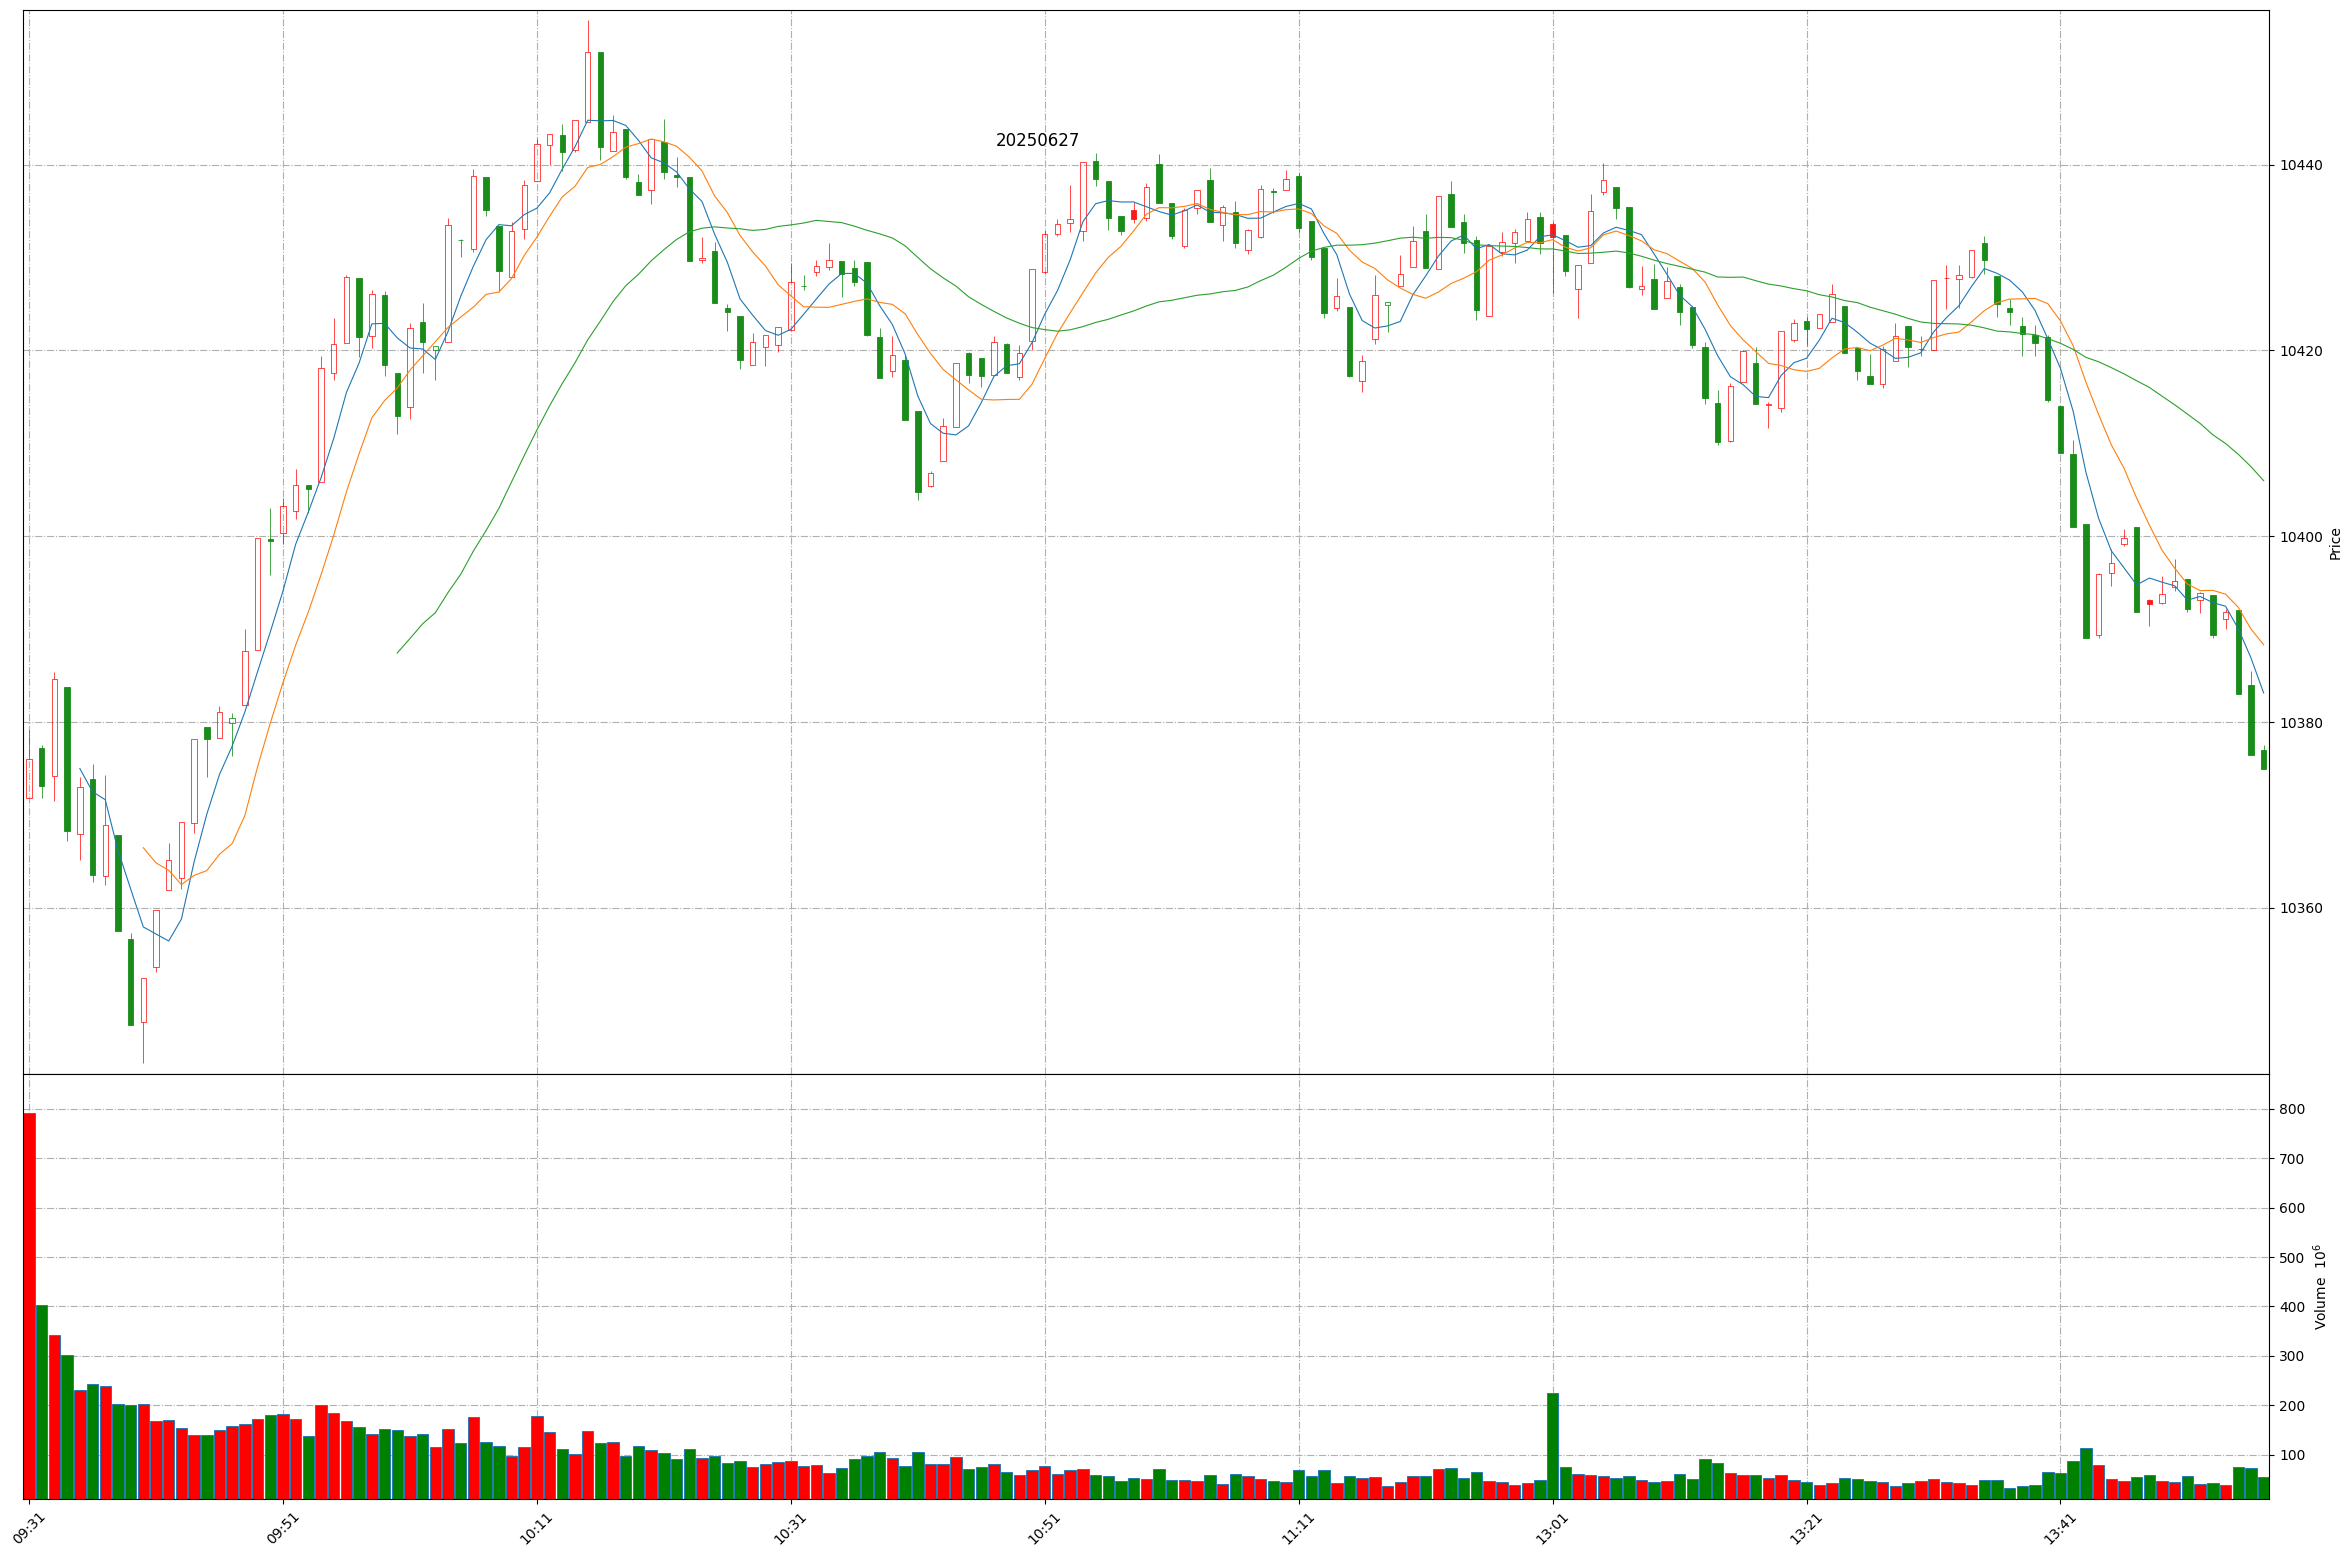
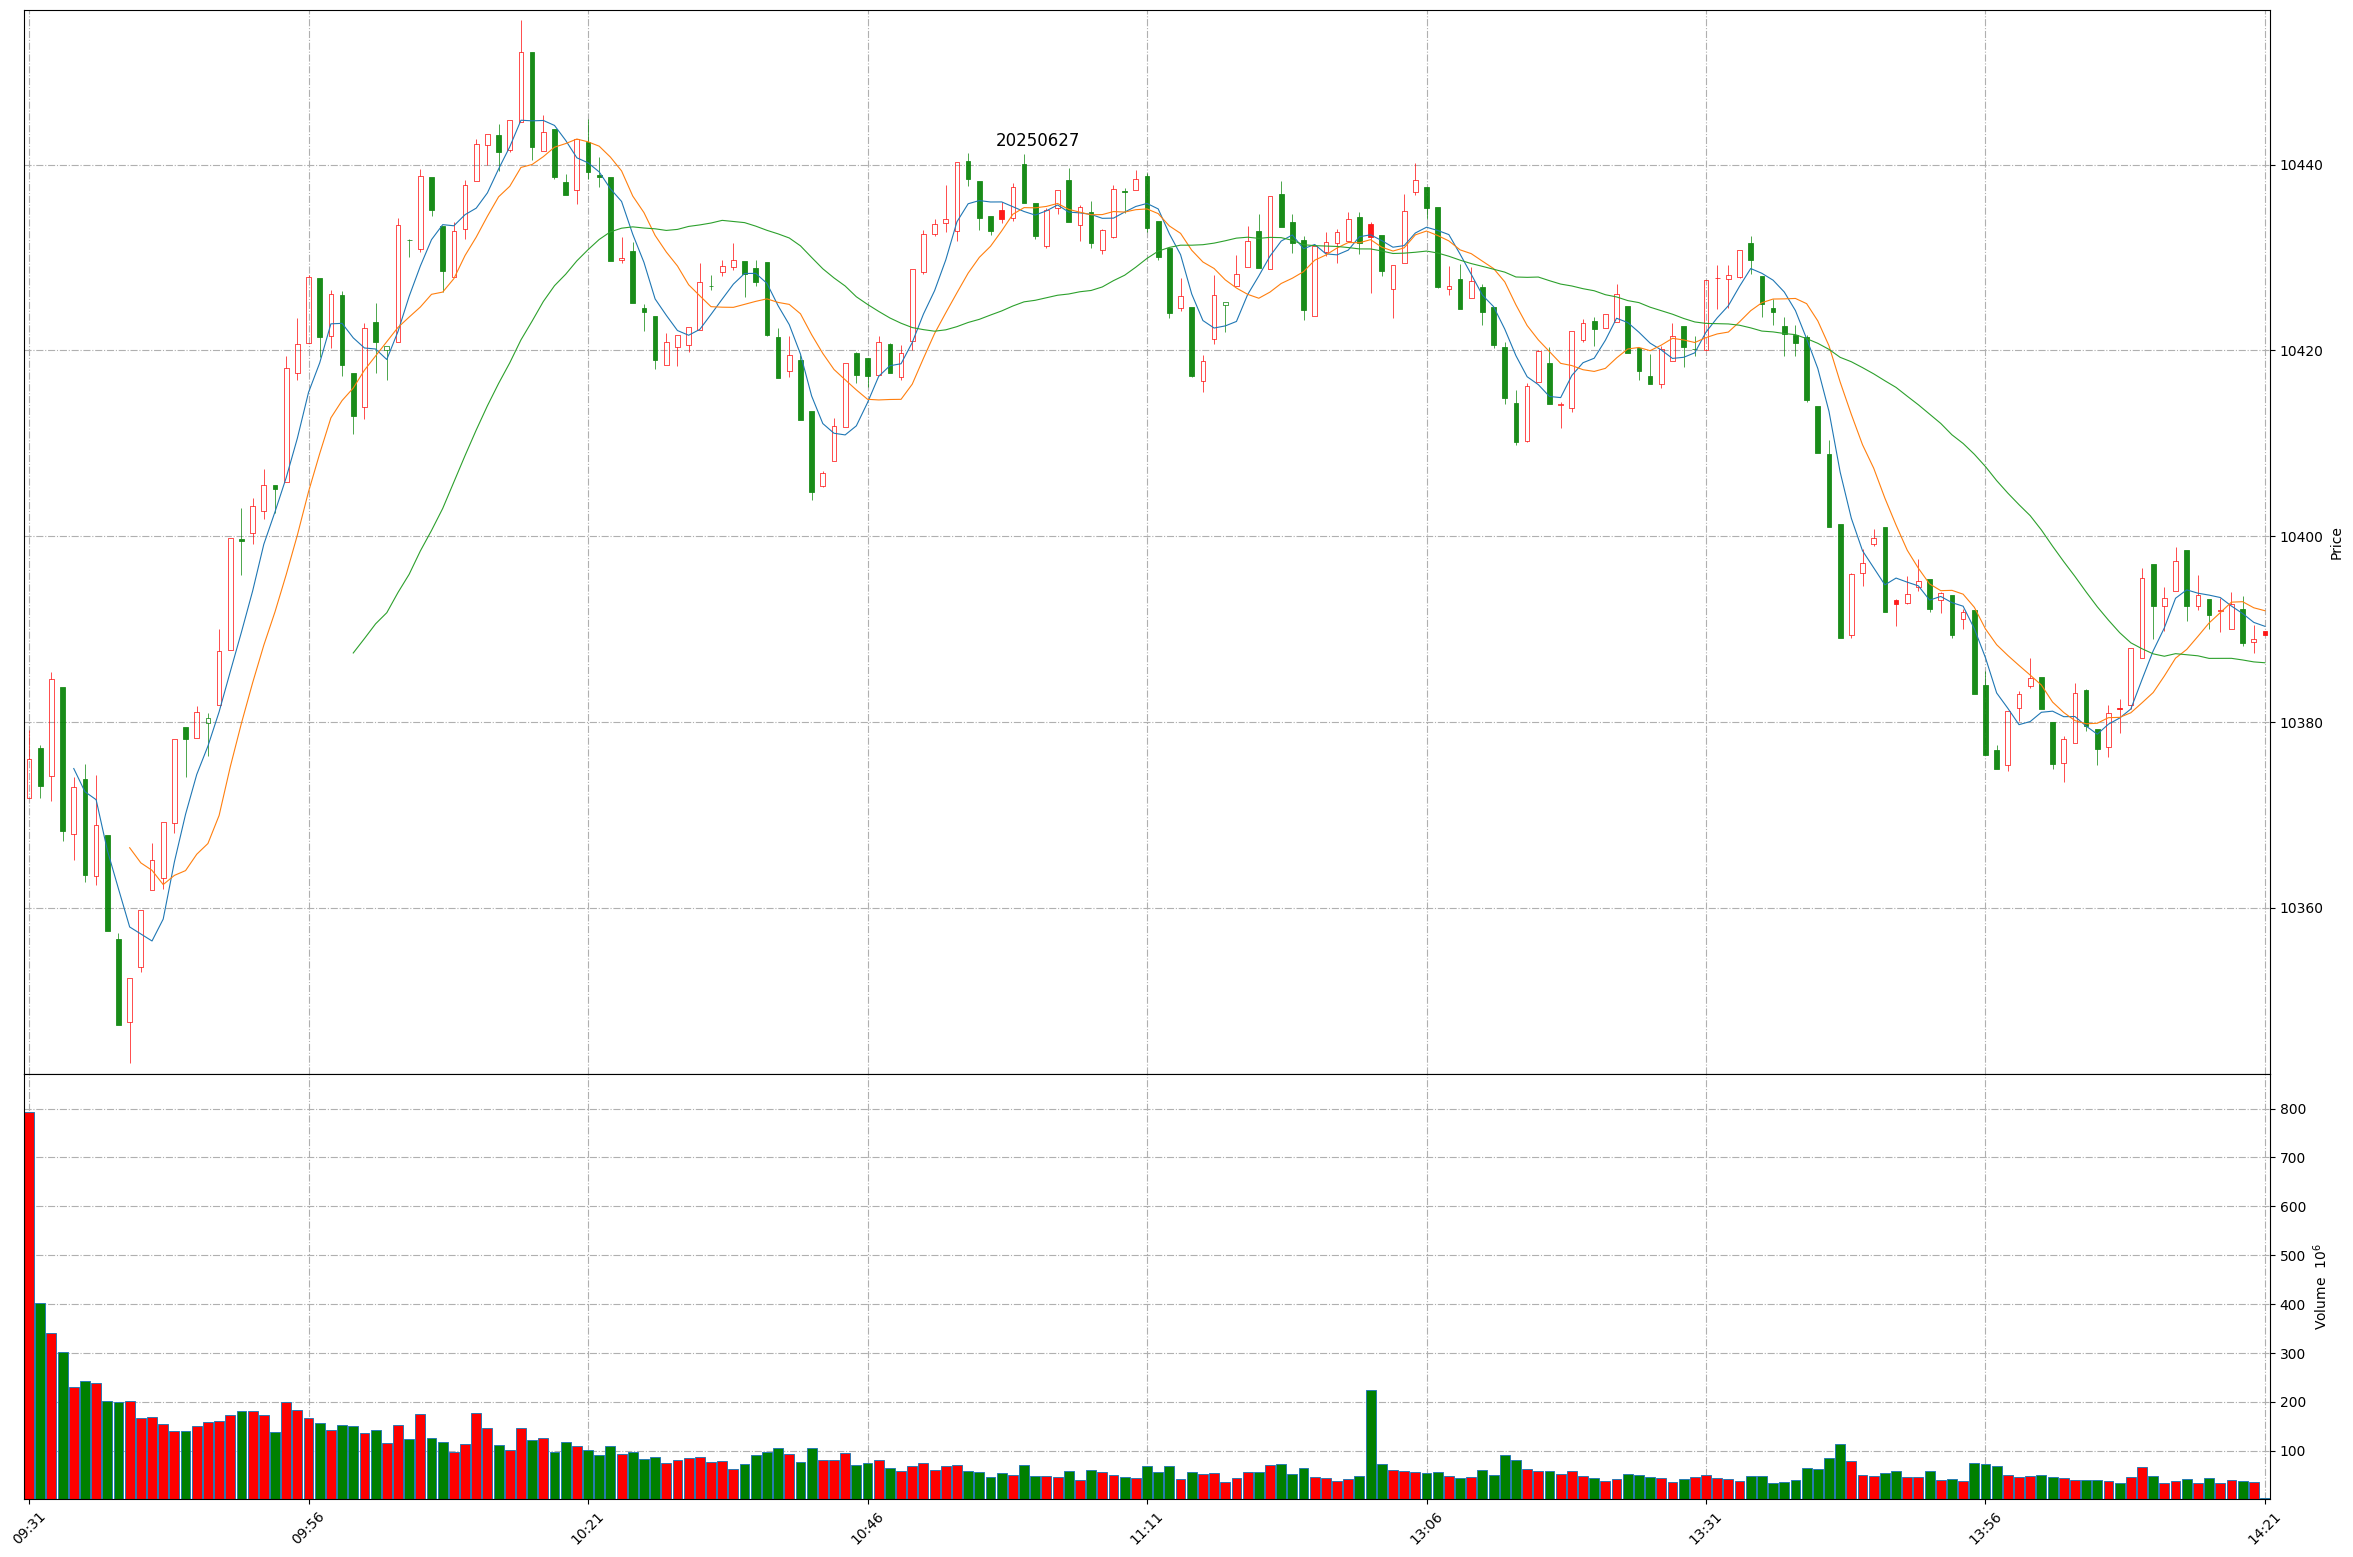
Github action update at 2025-06-27 14:20:27.

diff --git a/README.md b/README.md
@@ -1,11 +1,11 @@
 
 # Daily-A-share-market-quotes 每日 A 股指数（5min 更新）- 20250627
 
-### 上证指数 20250627 13:56
+### 上证指数 20250627 14:20
 ![](./fig/2025/6/20250627-sh000001.png)
 
-### 深证成指 20250627 13:56
+### 深证成指 20250627 14:20
 ![](./fig/2025/6/20250627-sz399001.png)
 
-### 北证50 20250627 13:56
+### 北证50 20250627 14:20
 ![](./fig/2025/6/20250627-bj899050.png)
